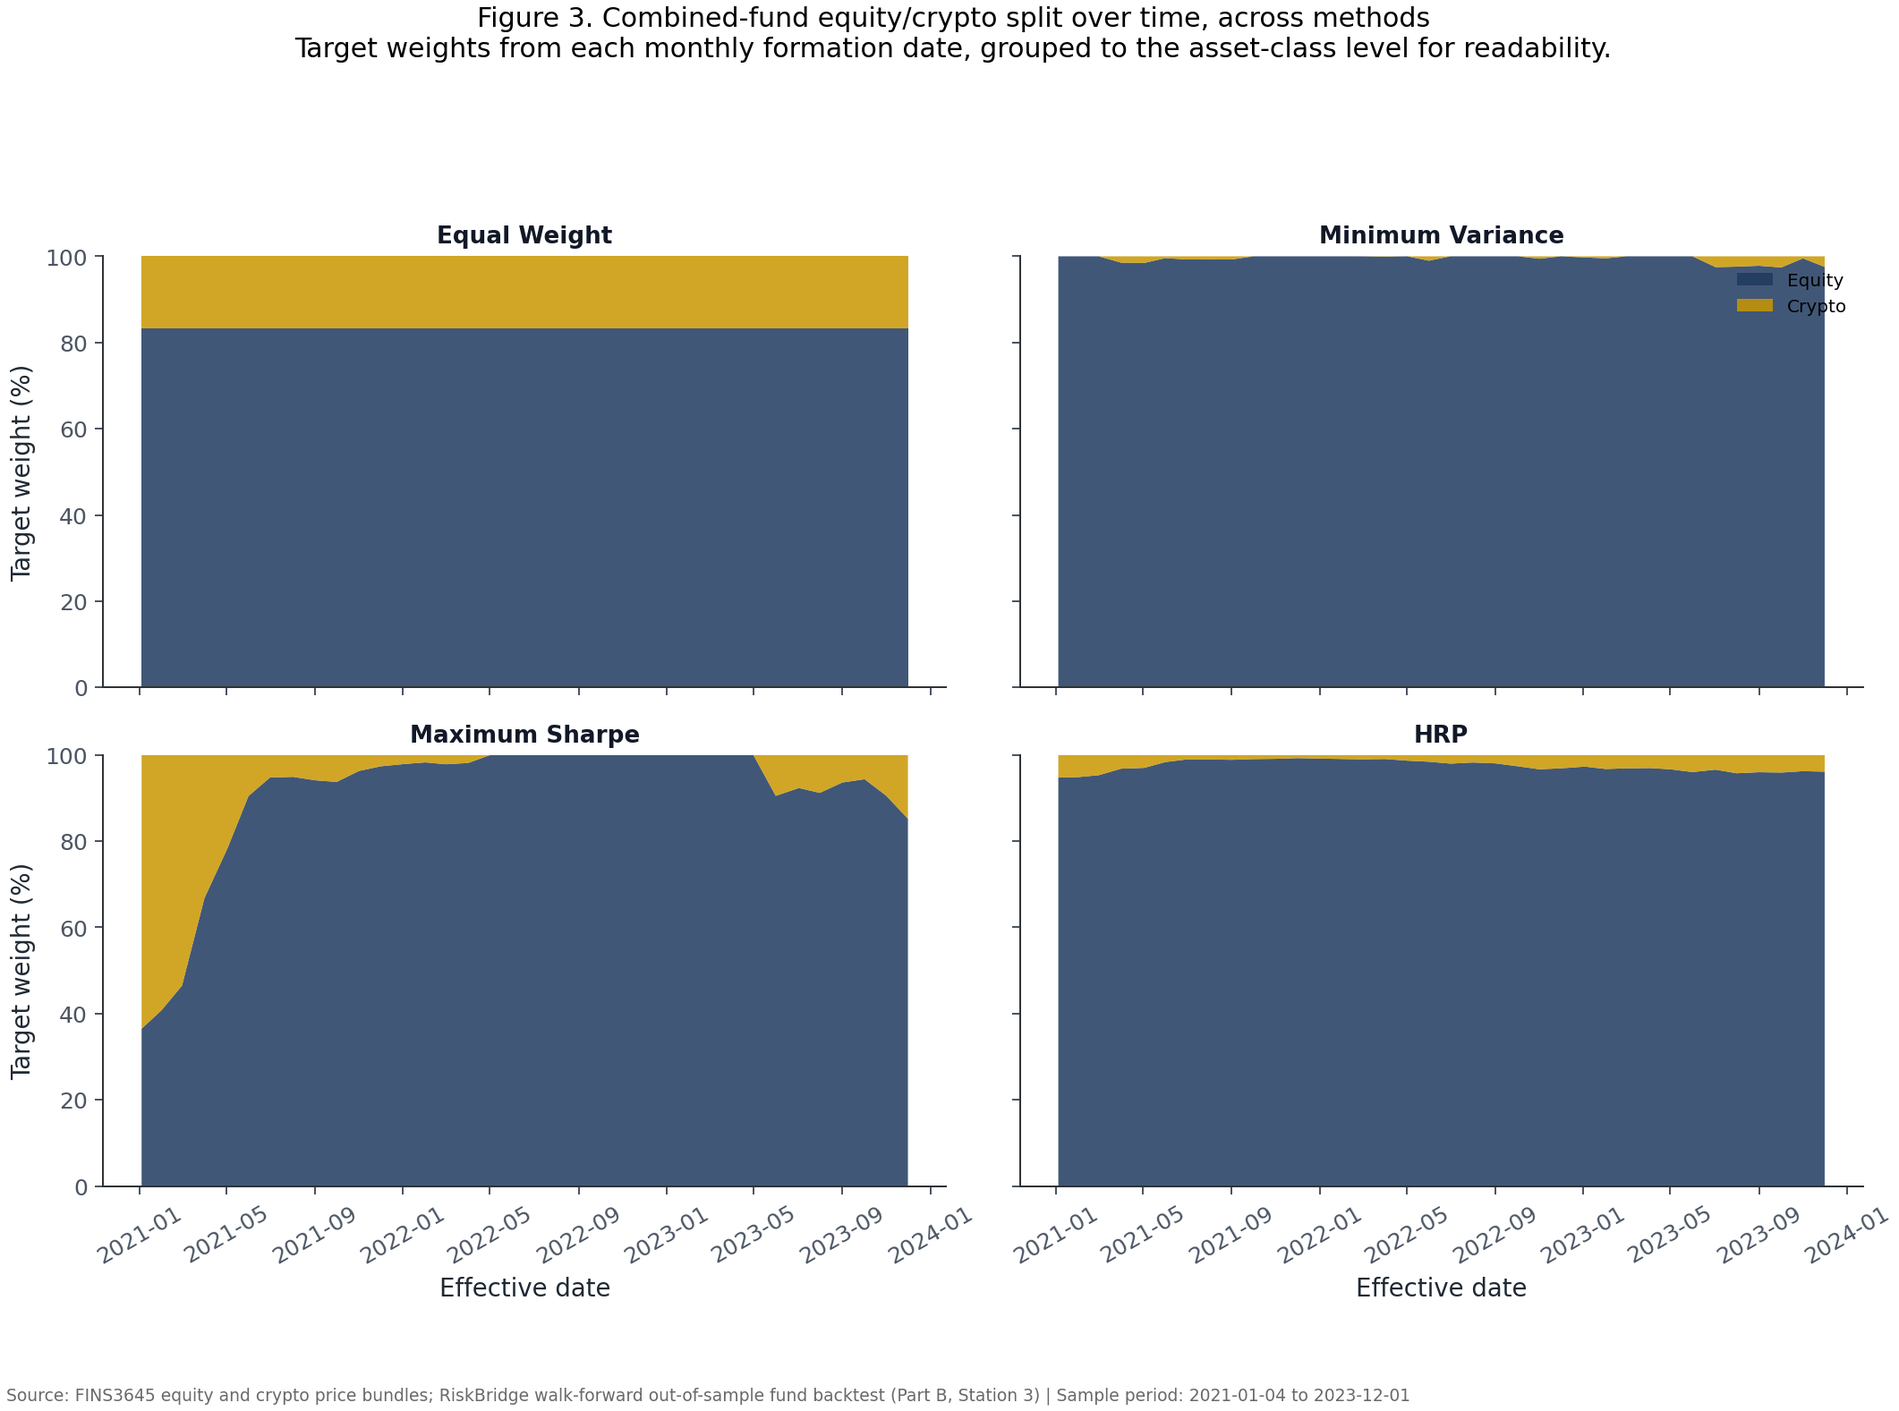
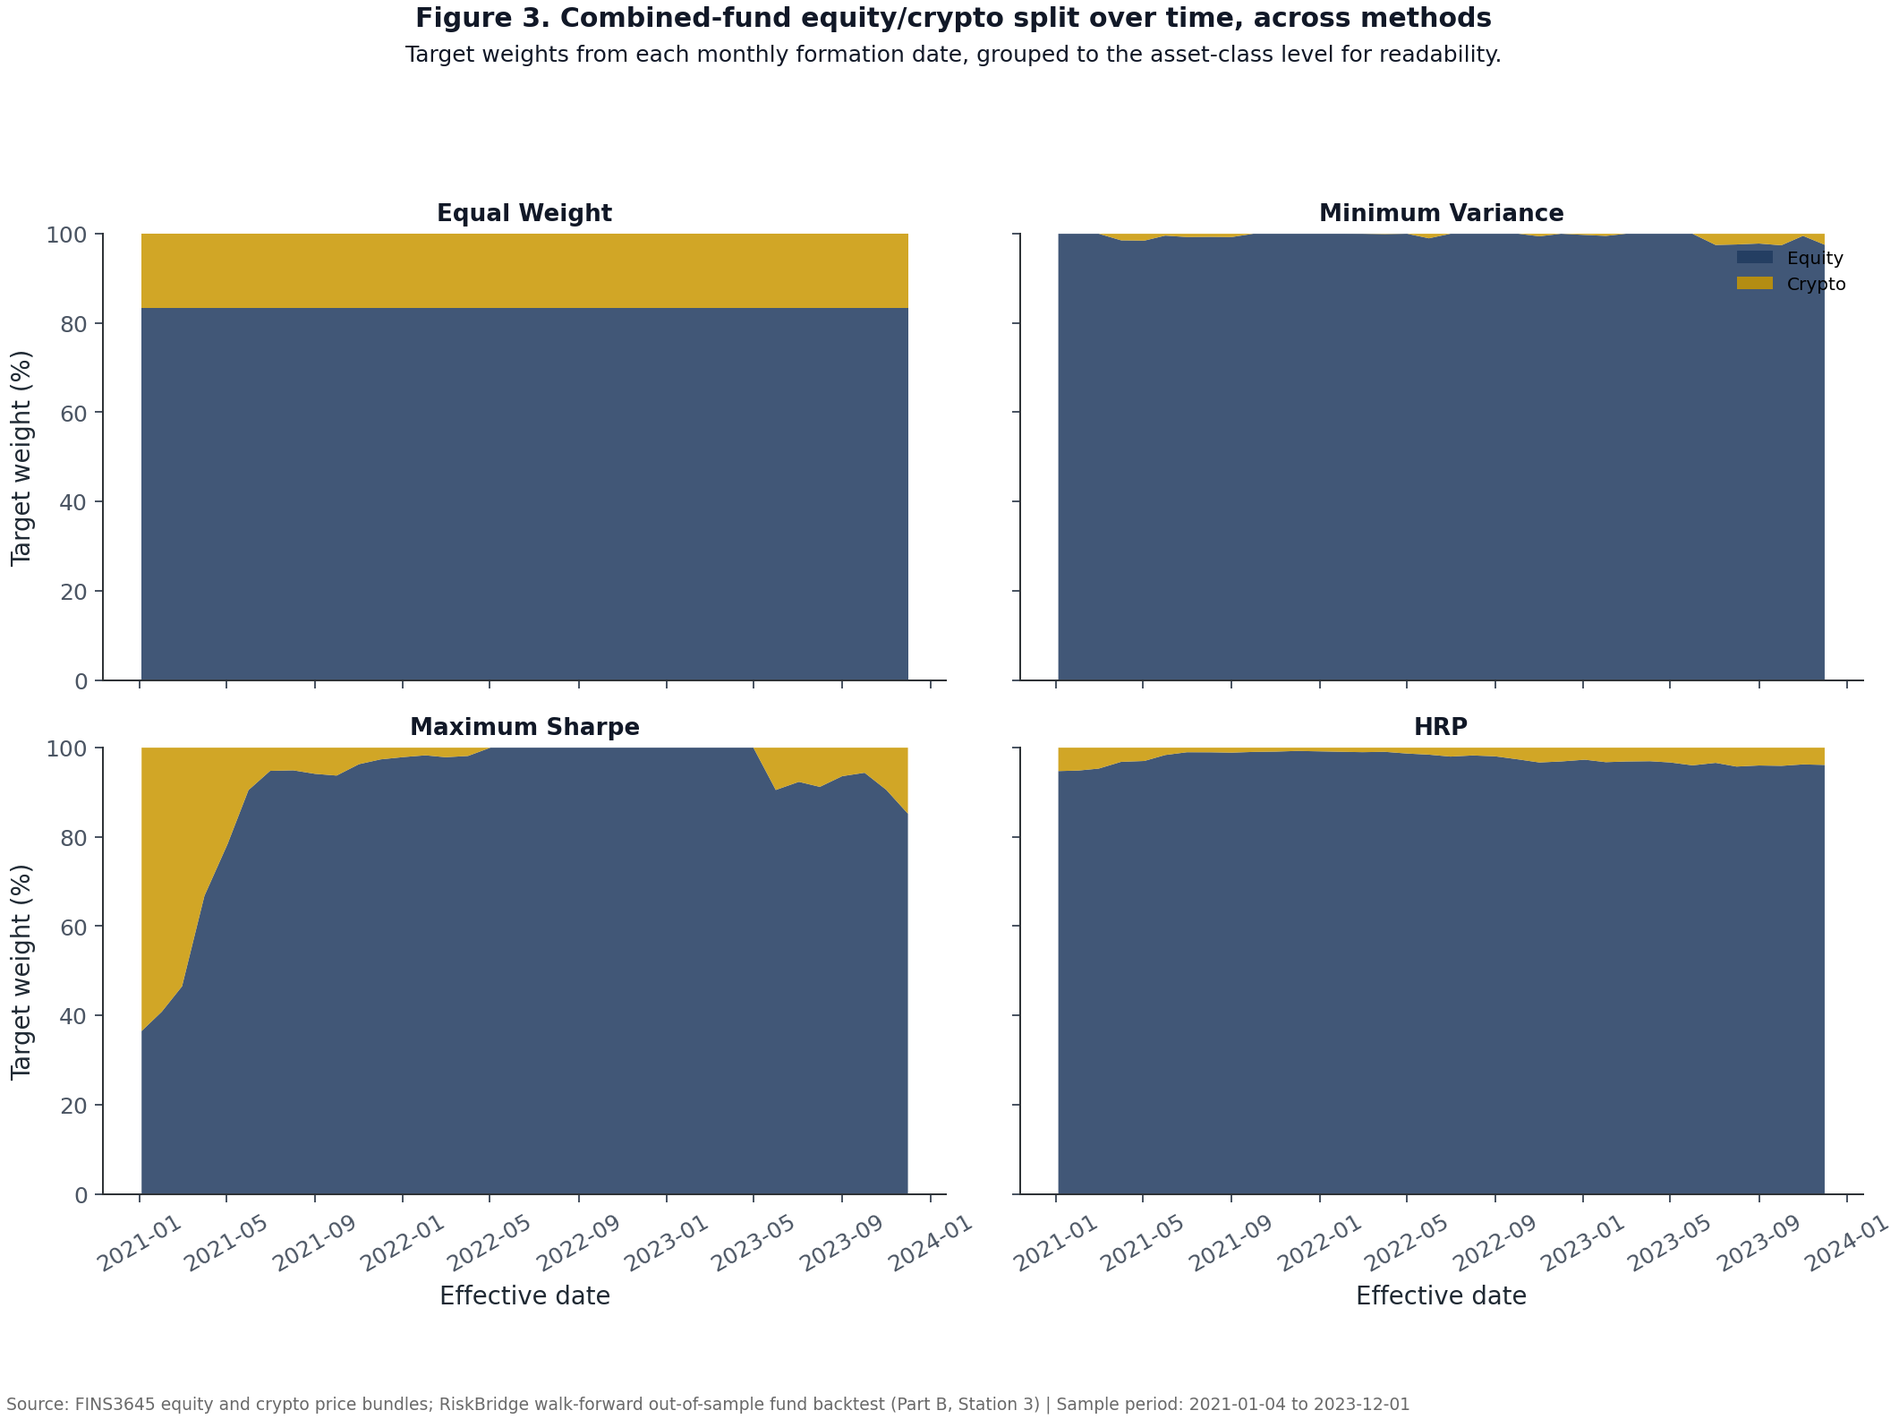
Polish report figures and deployment copy

diff --git a/scripts/run_part_b.py b/scripts/run_part_b.py
@@ -120,8 +120,46 @@ def apply_theme() -> None:
     mpl.rcParams.update(THEME_RC)
 
 
-def caption(title: str, note: str) -> str:
-    return f"{title}\n{note}"
+def add_figure_heading(
+    title: str, note: str, *, fig: mpl.figure.Figure | None = None
+) -> tuple[mpl.text.Text, mpl.text.Text]:
+    """Add a consistent bold title and regular-weight explanatory note."""
+    fig = plt.gcf() if fig is None else fig
+    title_size = 12.0
+    note_size = 10.0
+    title_y = 0.985
+    figure_height = float(fig.get_size_inches()[1])
+
+    title_artist = fig.suptitle(
+        title,
+        x=0.5,
+        y=title_y,
+        ha="center",
+        va="top",
+        fontsize=title_size,
+        fontweight="bold",
+        color="#111827",
+    )
+    title_height = title_size * 1.25 / (72.0 * figure_height)
+    interline_gap = 2.0 / (72.0 * figure_height)
+    note_y = title_y - title_height - interline_gap
+    note_artist = fig.text(
+        0.5,
+        note_y,
+        note,
+        ha="center",
+        va="top",
+        fontsize=note_size,
+        fontweight="normal",
+        linespacing=1.25,
+        color="#111827",
+    )
+
+    note_lines = note.count("\n") + 1
+    note_height = note_size * 1.25 * note_lines / (72.0 * figure_height)
+    bottom_gap = 4.0 / (72.0 * figure_height)
+    fig._riskbridge_heading_bottom = note_y - note_height - bottom_gap
+    return title_artist, note_artist
 
 
 def add_figure_footer(source: str, sample: str) -> None:
@@ -136,7 +174,9 @@ def finalise_figure(
 ) -> pathlib.Path:
     """Apply the common footer, layout and save settings used by every figure below."""
     add_figure_footer(source, sample)
-    plt.tight_layout(rect=[0, 0.07, 1, top])
+    fig = plt.gcf()
+    heading_bottom = float(getattr(fig, "_riskbridge_heading_bottom", top))
+    plt.tight_layout(rect=[0, 0.07, 1, min(top, heading_bottom)])
     plt.savefig(path, dpi=180, bbox_inches="tight")
     plt.close()
     return path
@@ -210,34 +250,57 @@ def plot_fund_growth(fund_returns: pd.DataFrame) -> pathlib.Path:
         if endpoints:
             endpoints.sort(key=lambda item: item[2])
             y_lo, y_hi = ax.get_ylim()
-            min_gap = (np.log10(y_hi) - np.log10(y_lo)) * 0.065
+            min_gap = (np.log10(y_hi) - np.log10(y_lo)) * 0.10
             stacked_log = []
             for _, _, y_value in endpoints:
                 candidate = np.log10(y_value)
                 if stacked_log and candidate < stacked_log[-1] + min_gap:
                     candidate = stacked_log[-1] + min_gap
                 stacked_log.append(candidate)
-            date_span = panel["date"].max() - panel["date"].min()
-            label_x = panel["date"].max() + date_span * 0.02
-            ax.set_xlim(right=panel["date"].max() + date_span * 0.17)
+            # Reserve a slim, unlabeled area after the final observation for
+            # direct endpoint labels. Major ticks stop at the real sample end,
+            # so the padding cannot be mistaken for additional return data.
+            sample_start = panel["date"].min()
+            sample_end = panel["date"].max()
+            date_span = sample_end - sample_start
+            label_x = sample_end + date_span * 0.018
+            ax.set_xlim(left=sample_start, right=sample_end + date_span * 0.10)
+            tick_dates = pd.date_range(
+                start=pd.Timestamp(year=sample_start.year, month=1, day=1),
+                end=sample_end,
+                freq="4MS",
+            )
+            tick_dates = tick_dates[tick_dates >= sample_start]
+            ax.set_xticks(tick_dates)
+            ax.set_xticklabels(tick_dates.strftime("%Y-%m"))
             for (method, x_last, y_value), label_log in zip(endpoints, stacked_log):
                 ax.scatter(
                     [x_last], [y_value], color=METHOD_COLORS[method], s=16,
                     zorder=4, edgecolor="white", linewidth=0.6,
+                    clip_on=False,
                 )
-                ax.text(
-                    label_x, 10 ** label_log, f"${y_value:.2f}",
-                    color=METHOD_COLORS[method], fontsize=7.5, fontweight="bold",
+                ax.annotate(
+                    f"${y_value:.2f}", xy=(x_last, y_value),
+                    xytext=(label_x, 10 ** label_log), textcoords="data",
+                    color=METHOD_COLORS[method], fontsize=8.5, fontweight="bold",
                     va="center", ha="left",
+                    arrowprops={
+                        "arrowstyle": "-",
+                        "color": METHOD_COLORS[method],
+                        "linewidth": 0.7,
+                        "alpha": 0.75,
+                        "shrinkA": 1.5,
+                        "shrinkB": 2.0,
+                    },
+                    zorder=6,
                 )
     axes[0].set_ylabel("Growth of $1")
     axes[0].legend(loc="upper left", fontsize=8)
-    fig.suptitle(
-        caption(
-            "Figure 1. Out-of-sample growth of $1 by fund family and method",
-            "Walk-forward monthly rebalancing; each formation date uses only information available up to that date.\n"
-            "Note: each panel's y-axis is scaled independently (log scale) - compare methods within a panel, not heights across panels.",
-        )
+    add_figure_heading(
+        "Figure 1. Out-of-sample growth of $1 by fund family and method",
+        "Walk-forward monthly rebalancing; each formation date uses only information available up to that date.\n"
+        "Note: each panel's y-axis is scaled independently (log scale) - compare methods within a panel, not heights across panels.",
+        fig=fig,
     )
     path = FIGURES / "figure_1_fund_growth_of_1.png"
     return finalise_figure(path, FUND_SOURCE, _date_range(fund_returns, "date"), top=0.80)
@@ -264,11 +327,9 @@ def plot_flagship_drawdown(fund_returns: pd.DataFrame) -> pathlib.Path:
         label="Combined Equal Weight (benchmark)",
     )
     plt.axhline(0, color="#262A33", linewidth=0.6)
-    plt.title(
-        caption(
-            "Figure 2. Drawdown: Combined Maximum Sharpe vs. the equal-weight benchmark",
-            "Peak-to-trough decline in growth of $1; the flagship optimised fund is checked against the simplest naive benchmark.",
-        )
+    add_figure_heading(
+        "Figure 2. Drawdown: Combined Maximum Sharpe vs. the equal-weight benchmark",
+        "Peak-to-trough decline in growth of $1; the flagship optimised fund is checked against the simplest naive benchmark.",
     )
     plt.xlabel("Date")
     plt.ylabel("Drawdown (%)")
@@ -323,11 +384,10 @@ def plot_combined_weights_by_asset_class(
         if idx >= 2:
             ax.set_xlabel("Effective date")
     axes_flat[1].legend(loc="upper right", fontsize=8)
-    fig.suptitle(
-        caption(
-            "Figure 3. Combined-fund equity/crypto split over time, across methods",
-            "Target weights from each monthly formation date, grouped to the asset-class level for readability.",
-        )
+    add_figure_heading(
+        "Figure 3. Combined-fund equity/crypto split over time, across methods",
+        "Target weights from each monthly formation date, grouped to the asset-class level for readability.",
+        fig=fig,
     )
     path = FIGURES / "figure_3_combined_weights_by_asset_class.png"
     return finalise_figure(
@@ -376,11 +436,10 @@ def plot_sharpe_barplot(performance_metrics: pd.DataFrame) -> pathlib.Path:
     ax.set_xticks(x)
     ax.set_xticklabels(FUND_FAMILIES)
     ax.set_ylabel("Sharpe ratio (annualised, rf = 0)")
-    ax.set_title(
-        caption(
-            "Figure 4. Annualised Sharpe ratio across funds and methods",
-            "Sharpe ratios from the walk-forward out-of-sample backtest, grouped by fund family; risk-free rate assumed zero.",
-        )
+    add_figure_heading(
+        "Figure 4. Annualised Sharpe ratio across funds and methods",
+        "Sharpe ratios from the walk-forward out-of-sample backtest, grouped by fund family; risk-free rate assumed zero.",
+        fig=fig,
     )
     # Extra headroom above the tallest bar so its value label never collides
     # with the "upper left" method legend, regardless of which bar is tallest.
@@ -458,11 +517,10 @@ def plot_backtest_diagnostics(diagnostics: pd.DataFrame) -> pathlib.Path:
             transform=axes[1].transAxes, ha="center", va="center", fontsize=10, color="#2E7D32",
         )
 
-    fig.suptitle(
-        caption(
-            "Figure 5 (extra). Backtest robustness: turnover and solver fallback by method",
-            "Checks that methods actually trade differently and that the optimizer rarely needs its equal-weight fallback.",
-        )
+    add_figure_heading(
+        "Figure 5 (extra). Backtest robustness: turnover and solver fallback by method",
+        "Checks that methods actually trade differently and that the optimizer rarely needs its equal-weight fallback.",
+        fig=fig,
     )
     path = FIGURES / "figure_5_backtest_diagnostics.png"
     return finalise_figure(
@@ -637,20 +695,13 @@ def plot_extended_sector_sentiment_index(sector_index: pd.DataFrame) -> pathlib.
         "Standardised Extended FinVADER sentiment\n(prior-history expanding z-score)",
         fontsize=10,
     )
-    fig.suptitle(
-        caption(
-            "Figure 6. Standardised Extended FinVADER sector sentiment index, 2021-2023",
-            "Thin line: daily z-score. Bold line: rolling mean of the latest 21 valid sentiment "
-            "observations, for display only - not part of the index, classification, or any other "
-            "analysis. The rolling series remains missing whenever the daily sentiment index is "
-            "missing.\n"
-            "z > 0: sentiment above the sector's own history; z < 0: below; z = 0 matches history, "
-            "not \"no information\". Blank: no news that day, or fewer than 60 prior observations "
-            "- never neutral.",
-        )
+    add_figure_heading(
+        "Figure 6. Extended FinVADER sector sentiment, 2021-2023",
+        "Daily prior-history z-scores and 21-observation rolling means",
+        fig=fig,
     )
     path = FIGURES / "figure_6_extended_sector_sentiment_index.png"
-    return finalise_figure(path, SENTIMENT_SOURCE, _date_range(sector_index, "date"), top=0.91)
+    return finalise_figure(path, SENTIMENT_SOURCE, _date_range(sector_index, "date"), top=0.94)
 
 
 def plot_baseline_vs_extended_sentiment(
@@ -681,11 +732,11 @@ def plot_baseline_vs_extended_sentiment(
     panels = [
         ("Overall aggregate\n(equal-weight mean across sectors)", aggregate),
         (
-            f"{highest_sector}\n(highest custom-term hit rate)",
+            f"{highest_sector}\n(highest custom-lexicon coverage)",
             sector_index.loc[sector_index["sector"] == highest_sector].sort_values("date"),
         ),
         (
-            f"{lowest_sector}\n(lowest custom-term hit rate)",
+            f"{lowest_sector}\n(lowest custom-lexicon coverage)",
             sector_index.loc[sector_index["sector"] == lowest_sector].sort_values("date"),
         ),
     ]
@@ -706,15 +757,14 @@ def plot_baseline_vs_extended_sentiment(
     axes[0].set_ylabel("Standardised sentiment (expanding z-score)")
     axes[0].legend(loc="upper left", fontsize=8)
 
-    fig.suptitle(
-        caption(
-            "Figure 7. Baseline vs. Extended FinVADER, 2021-2023",
-            "Selection rule: overall aggregate, plus the highest- and lowest-hit-rate sectors from "
-            "results/tables/sector_sentiment_model_comparison.csv (custom_term_hit_rate).",
-        )
+    add_figure_heading(
+        "Figure 7. Baseline versus Extended FinVADER, 2021-2023",
+        "Overall market sentiment and sectors with the highest and lowest "
+        "custom-lexicon coverage",
+        fig=fig,
     )
     path = FIGURES / "figure_7_baseline_vs_extended_sentiment.png"
-    return finalise_figure(path, SENTIMENT_SOURCE, _date_range(sector_index, "date"), top=0.84)
+    return finalise_figure(path, SENTIMENT_SOURCE, _date_range(sector_index, "date"), top=0.88)
 
 
 # ----------------------------------------------------------------------------
@@ -819,20 +869,14 @@ def plot_market_wide_sentiment_index(sector_index: pd.DataFrame) -> pathlib.Path
     upper.set_xlim(start_date, end_date)
     lower.set_xlim(start_date, end_date)
 
-    fig.suptitle(
-        caption(
-            "Figure 9. Market-wide Extended FinVADER news sentiment, 2021-2023",
-            "Each day is the equal-weight mean across sectors with a valid reading that day; sectors are not "
-            "weighted by headline or ticker count.\n"
-            "The 0-100 score is a linear relabelling of the raw compound score (50 = compound 0), not a "
-            "probability or a return forecast. The lower panel averages the\n"
-            "sectors' own expanding z-scores and is not re-standardised. Blank stretches are missing readings "
-            "or the 60-observation warm-up; the rolling mean is display only.",
-        )
+    add_figure_heading(
+        "Figure 9. Market-wide Extended FinVADER sentiment, 2021-2023",
+        "Equal-weight sector aggregate: sentiment level and relative historical position",
+        fig=fig,
     )
     path = FIGURES / "figure_9_market_wide_sentiment_index.png"
     return finalise_figure(
-        path, EXTENDED_SENTIMENT_SOURCE, _date_range(aggregate, "date"), top=0.93
+        path, EXTENDED_SENTIMENT_SOURCE, _date_range(aggregate, "date"), top=0.95
     )
 
 
@@ -900,15 +944,14 @@ def plot_sector_sentiment_ranking(sector_index: pd.DataFrame) -> pathlib.Path:
     )
 
     day_counts = ranking["n_valid_sector_days"]
-    fig.suptitle(
-        caption(
-            "Figure 10. Average Extended FinVADER sentiment by equity sector, 2021-2023",
-            "Descriptive mean and median of the raw compound score over each sector's valid sector-days "
-            f"({int(day_counts.min())}-{int(day_counts.max())} days per sector);\n"
-            "missing sector-days are excluded rather than treated as neutral, and sectors are not weighted "
-            "by headline count. Differences between sectors are\n"
-            "descriptive only - they are not a significance test, a causal claim, or a forecast of future returns.",
-        )
+    add_figure_heading(
+        "Figure 10. Average Extended FinVADER sentiment by equity sector, 2021-2023",
+        "Descriptive mean and median of the raw compound score over each sector's valid sector-days "
+        f"({int(day_counts.min())}-{int(day_counts.max())} days per sector);\n"
+        "missing sector-days are excluded rather than treated as neutral, and sectors are not weighted "
+        "by headline count. Differences between sectors are\n"
+        "descriptive only - they are not a significance test, a causal claim, or a forecast of future returns.",
+        fig=fig,
     )
     path = FIGURES / "figure_10_sector_sentiment_ranking.png"
     return finalise_figure(
@@ -1215,7 +1258,14 @@ def _variant_weight_diagnostics(
 
 
 def plot_fusion_before_vs_after(fusion_returns: pd.DataFrame) -> pathlib.Path:
-    """Figure 8: growth of $1 for the base fund and the two extended tilts."""
+    """Figure 8: growth of $1 for the base fund and two extended tilts.
+
+    Word-caption detail: all three series use the same Equity-Only Minimum
+    Variance book, backtest engine, rebalance dates, and transaction-cost
+    assumption. They differ only in the sentiment tilt applied to target
+    weights. The +1 and -1 directions were fixed in advance rather than
+    selected after observing these results.
+    """
     sentiment.assert_application_period_only(
         fusion_returns["date"], context="figure_8 fusion_returns input"
     )
@@ -1231,21 +1281,15 @@ def plot_fusion_before_vs_after(fusion_returns: pd.DataFrame) -> pathlib.Path:
     plt.axhline(1.0, color="#4B5563", linewidth=0.6, linestyle=":")
     plt.xlabel("Date")
     plt.ylabel("Growth of $1 (net of transaction costs)")
-    plt.title(
-        caption(
-            "Figure 8. Extended sentiment tilt vs. the untilted base fund, 2021-2023",
-            "All three series are the same Equity-Only Minimum Variance book, priced with "
-            "the same backtest engine, rebalance dates and transaction-cost assumption;\n"
-            "they differ only in the sentiment tilt applied to the target weights.\n"
-            "lambda = +1 and lambda = -1 are two directions fixed in advance, not a tilt "
-            "strength selected from these results.",
-        )
+    add_figure_heading(
+        "Figure 8. Extended sentiment tilt versus the untilted base fund, 2021-2023",
+        "Equity-Only Minimum Variance, net of transaction costs",
     )
     plt.legend(loc="upper left", fontsize=8, frameon=True, facecolor="white",
                edgecolor="#D8DDE6", framealpha=0.94)
     path = FIGURES / "figure_8_fusion_before_vs_after.png"
     return finalise_figure(
-        path, FUSION_SOURCE, _date_range(fusion_returns, "date"), top=0.84
+        path, FUSION_SOURCE, _date_range(fusion_returns, "date"), top=0.94
     )
 
 

diff --git a/README.md b/README.md
@@ -33,7 +33,7 @@ The Streamlit application provides four main investor views:
 - **Fund Comparison:** compare all 12 fund-family and portfolio-method combinations using consistent out-of-sample performance metrics.
 - **Fund Fact Sheet:** inspect growth of $1, drawdown, annualised return, volatility, Sharpe ratio, and current holdings for a selected fund.
 - **Allocation Lab:** create an illustrative allocation across the available funds and inspect the combined historical risk-return profile.
-- **Sentiment Analytics:** explore sector sentiment, compare the baseline and extended finance lexicons, and evaluate the base, momentum, and contrarian sentiment portfolios.
+- **Sentiment Analytics:** explore the production Extended FinVADER sector sentiment index and evaluate the base, momentum, and contrarian sentiment portfolios. The baseline-versus-extended validation is documented in the model-validation exhibit.
 
 The allocation tool is illustrative only and does not execute trades or represent a recommendation.
 
